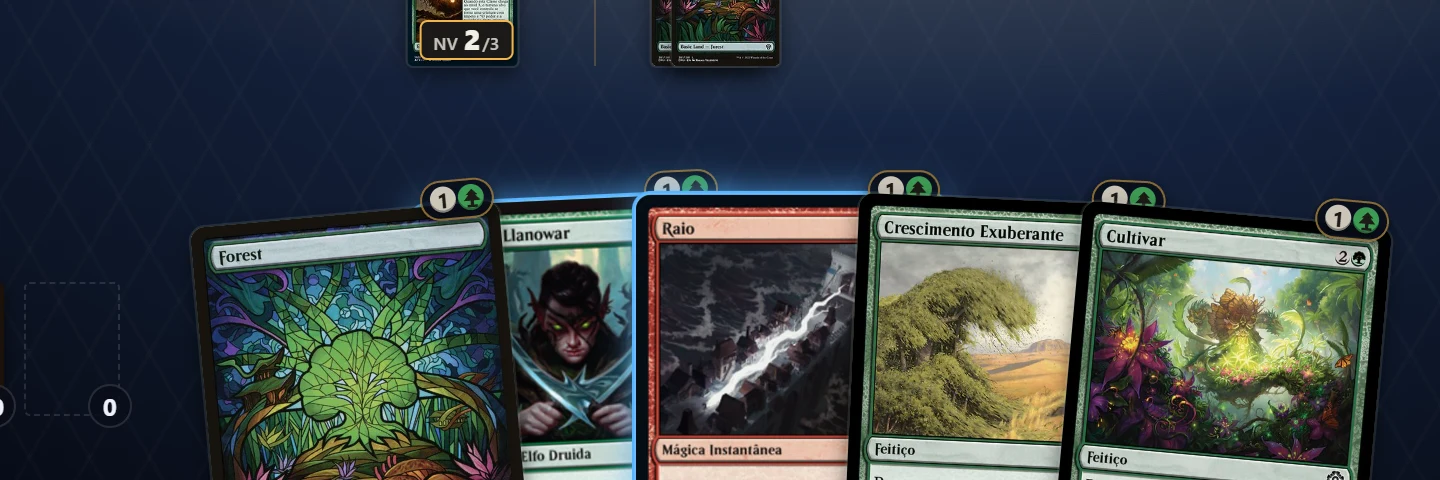
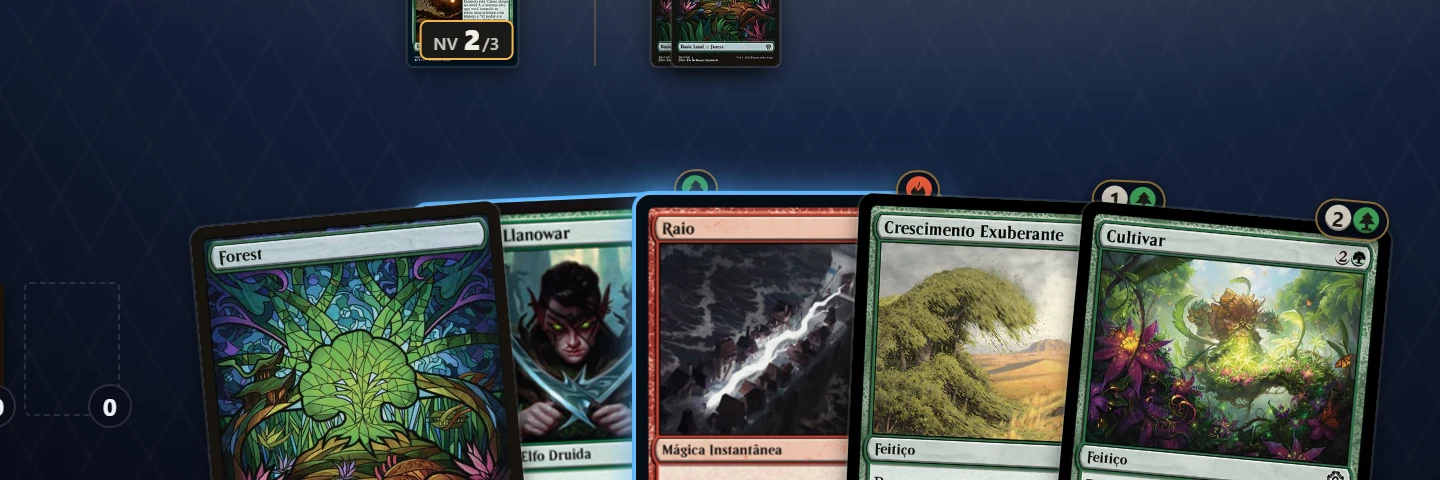
Refazer prints da mão com os custos certos e completar chaves na spec
A página de teste do duelo dava {1}{G} a toda carta da mão, e a Floresta
aparecia com custo nos prints da 0.75.0.

diff --git a/tests/fixtures/duel-table.ts b/tests/fixtures/duel-table.ts
@@ -3,7 +3,10 @@ import { createForgeTableView } from '../../src/ui/forgeTable';
 const card = (id: number, name: string, controller: number, extra = {}) => ({ id, name, controller, tapped: false, token: false, manaCost: '{1}{G}', typeLine: 'Creature — Elf', creature: true, power: 2, toughness: 2, ...extra });
 const land = (id: number, controller: number) => card(id, 'Forest', controller, { creature: false, land: true, typeLine: 'Basic Land — Forest', manaCost: '' });
 const players = [10, 23].map((id, seat) => ({ id, seat, name: seat ? 'Oponente' : 'Você', ai: seat === 1, life: 20 - seat * 4, library: 50, handCount: 5,
-  hand: seat === 0 ? ['Llanowar Elves', 'Forest', 'Lightning Bolt', 'Rampant Growth', 'Cultivate'].map((n, i) => card(300 + i, n, id)) : [],
+  hand: seat === 0 ? [card(300, 'Llanowar Elves', id, { manaCost: '{G}', typeLine: 'Creature — Elf Druid', power: 1, toughness: 1 }), land(301, id),
+    card(302, 'Lightning Bolt', id, { creature: false, manaCost: '{R}', typeLine: 'Instant' }),
+    card(303, 'Rampant Growth', id, { creature: false, manaCost: '{1}{G}', typeLine: 'Sorcery' }),
+    card(304, 'Cultivate', id, { creature: false, manaCost: '{2}{G}', typeLine: 'Sorcery' })] : [],
   battlefield: [card(100 + seat, 'Soul Warden', id, { manaCost: '{W}' }), land(200 + seat, id), land(210 + seat, id),
     ...(seat === 0 ? [card(250, 'Druid Class', id, { creature: false, manaCost: '{1}{G}', typeLine: 'Enchantment — Class', classLevel: 2, classMaxLevel: 3 })] : [])],
   graveyard: [], exile: [], pool: {}, counters: seat === 0 ? { RAD: 3, ENERGY: 2 } : { POISON: 4, RAD: 1, EXPERIENCE: 2, CONTRACT: 1 } }));

diff --git a/docs/spec-login-google.md b/docs/spec-login-google.md
@@ -34,7 +34,7 @@ Continua dando para jogar sem conta, como hoje. A conta só serve para guardar e
 ## Como é hoje
 
 - Os decks do jogador ficam no `localStorage`, em `mesa:decks:v2` (`{version: 2, decks, recovery}`), lidos e gravados por `readDeckLibrary` e `writeDeckLibrary` em `src/decks.ts`. Cada deck tem `id` (UUID) e `updatedAt`. Os decks prontos (`builtin`) vêm de `shared/starter-decks.json` e não são do jogador.
-- As preferências também estão em chaves soltas do `localStorage`: `mesa:audio:v1`, `mesa:turnNotice`, `mesa:pace`, `mesa:passResponses`, `mesa:autoPassNoActions`, `mesa:opponentStops`, `mesa:choiceSort` e `mesa:name`.
+- As preferências também estão em chaves soltas do `localStorage`: `mesa:audio:v1`, `mesa:turnNotice`, `mesa:pace`, `mesa:passLevel`, `mesa:passResponses`, `mesa:autoPassNoActions`, `mesa:opponentStops`, `mesa:choiceSort` e `mesa:name`.
 - A ponte (Netty) já atende HTTP em `/api/relatos` e `/api/admin/`. O login de admin (`Admin.java`) guarda os tokens só na memória, e o agregador HTTP aceita corpos de até 64 KB.
 - O nginx encaminha `/api/` para a ponte. O service worker não intercepta `/api/` (`navigateFallbackDenylist`).
 
